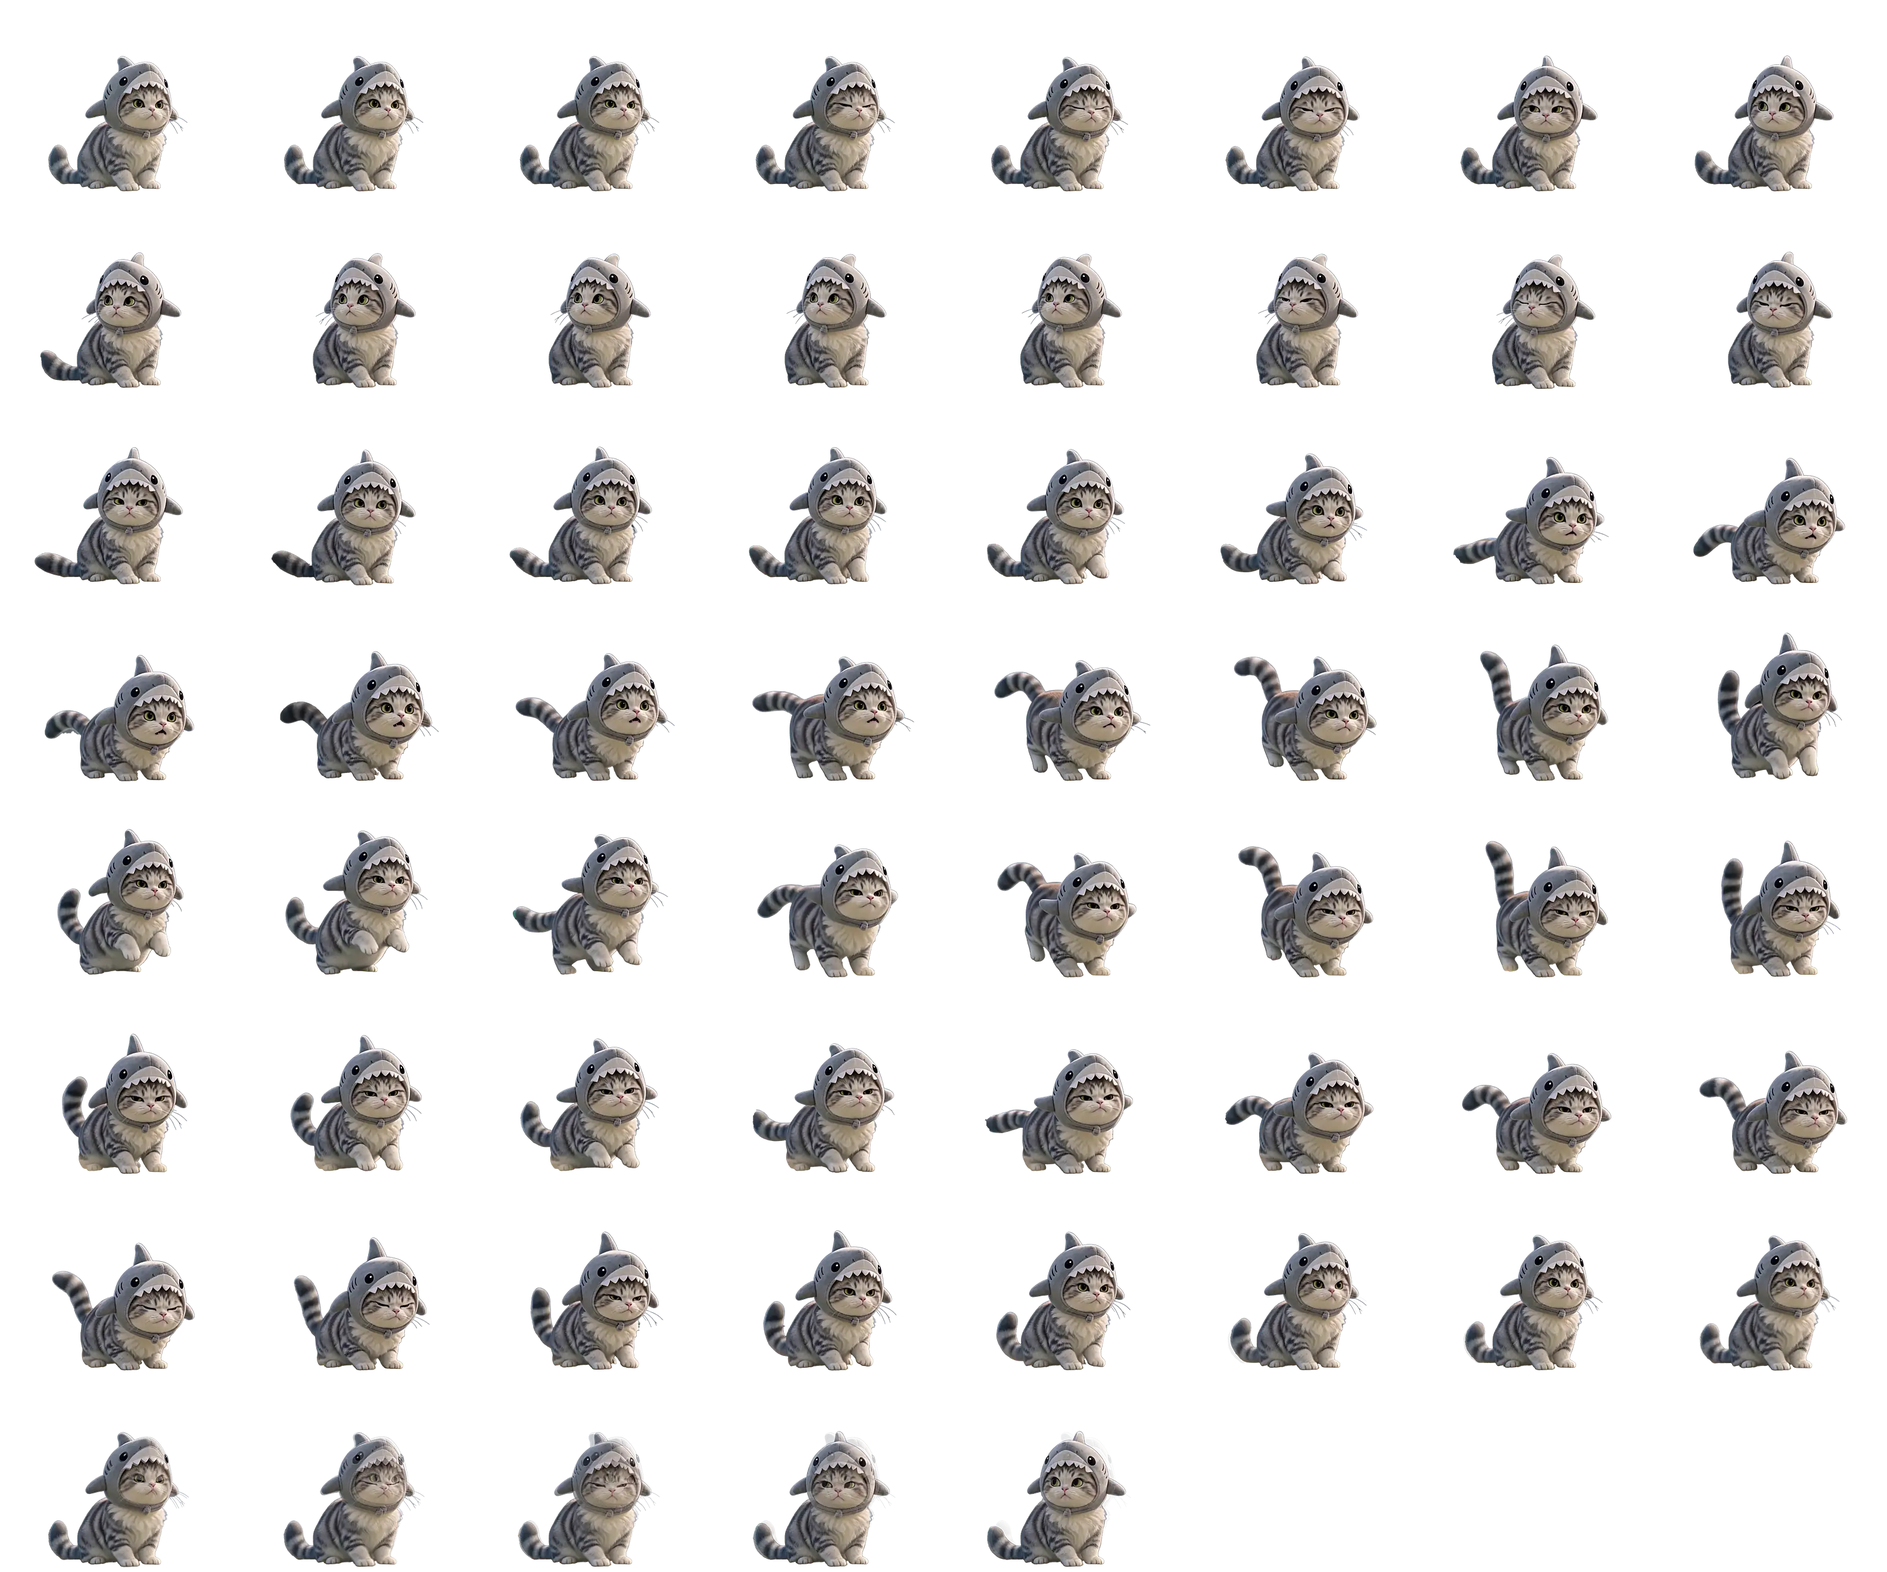
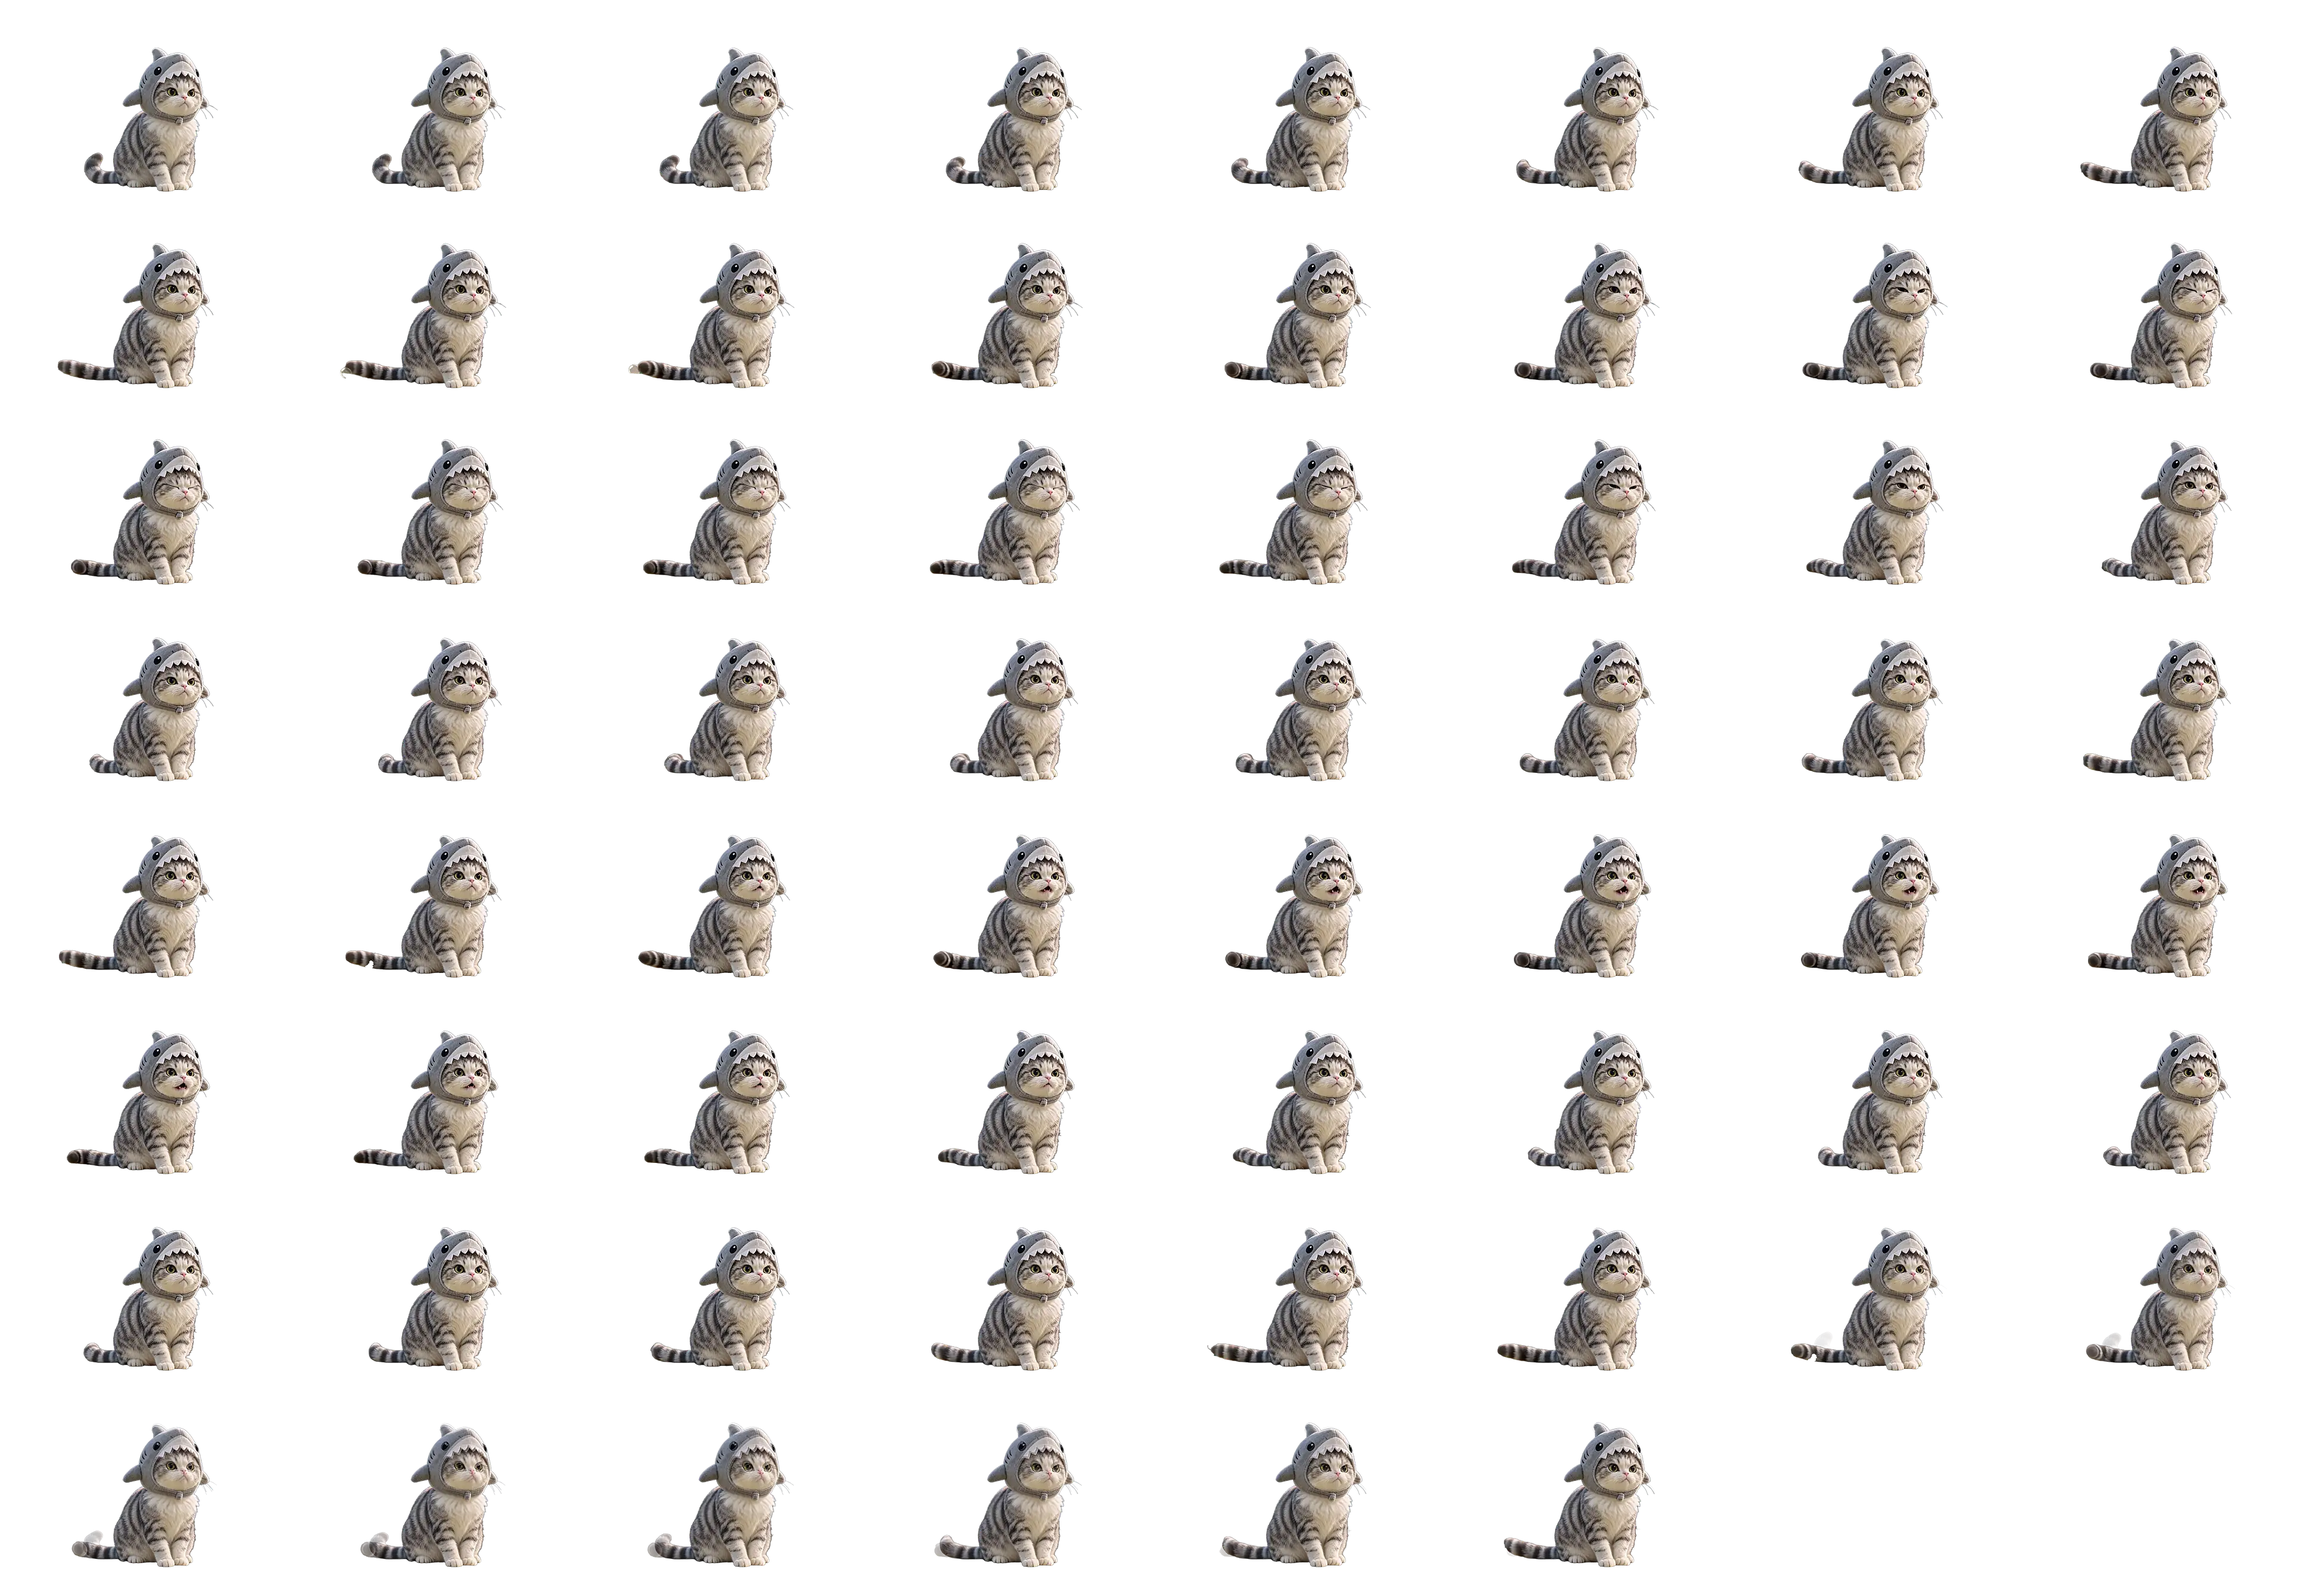
New idle clip for Meowie on the sand
Cut out from the new idling video (62 frames, background removed), in a
wider cell so his tail never clips as it sweeps out. Used on the setup
screens and on Today until the water reaches 50% and he swims.

Claude-Session: https://claude.ai/code/session_01B5uuep4CFevU3CzZGx4DoL

diff --git a/minum-air/sw.js b/minum-air/sw.js
@@ -1,5 +1,5 @@
 // Offline shell for Minum Air. Weather calls go straight to the network.
-const CACHE = 'minum-air-v31';
+const CACHE = 'minum-air-v32';
 const SHELL = ['/', '/styles.css', '/meowie.js', '/i18n.js', '/app.js', '/manifest.webmanifest', '/sound.js', '/favicon.png', '/icon-192.png', '/meowie-photo.jpg', '/meowie-avatar.jpg',
   '/meowie-idle.webp', '/meowie-pet.webp', '/meowie-happy.webp', '/meowie-swim.webp', '/meowie-peek.webp', '/meowie-turn.webp', '/meowie-drink-mask.webp',
   ...Array.from({ length: 16 }, (_, i) => `/av/${String(i + 1).padStart(2, '0')}.jpg`)];

diff --git a/minum-air/meowie.js b/minum-air/meowie.js
@@ -25,7 +25,7 @@
   const PX = 1.1;
   const COLS = 8;
   const SHEETS = {
-    idle: { n: 61, w: 360, x: 180, cols: 8 }, pet: { n: 18, w: 520, x: 180, cols: 7 },
+    idle: { n: 62, w: 440, x: 230, cols: 8 }, pet: { n: 18, w: 520, x: 180, cols: 7 },
     happy: { n: 26, w: 360, x: 180, cols: 8 },
     swim: { n: 27, w: 360, x: 180, cols: 8 }, peek: { n: 57, w: 360, x: 180, cols: 8 },
     turn: { n: 15, w: 360, x: 180, cols: 8 },
